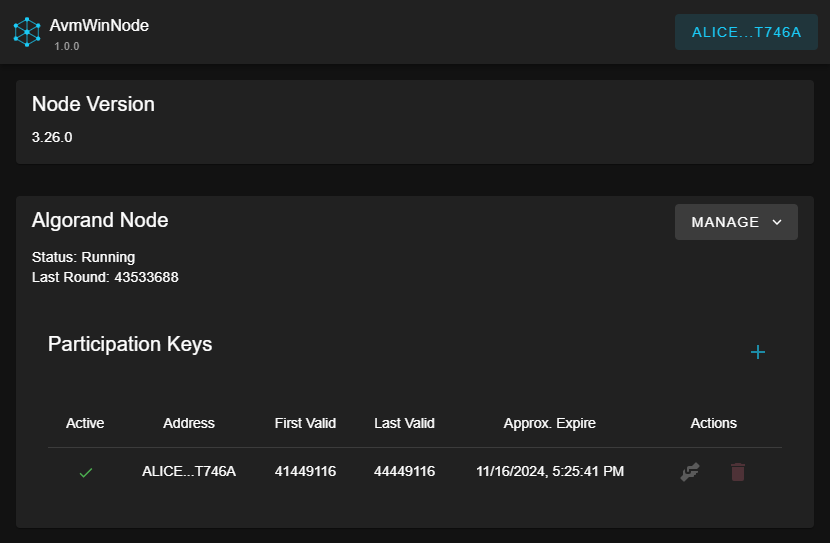
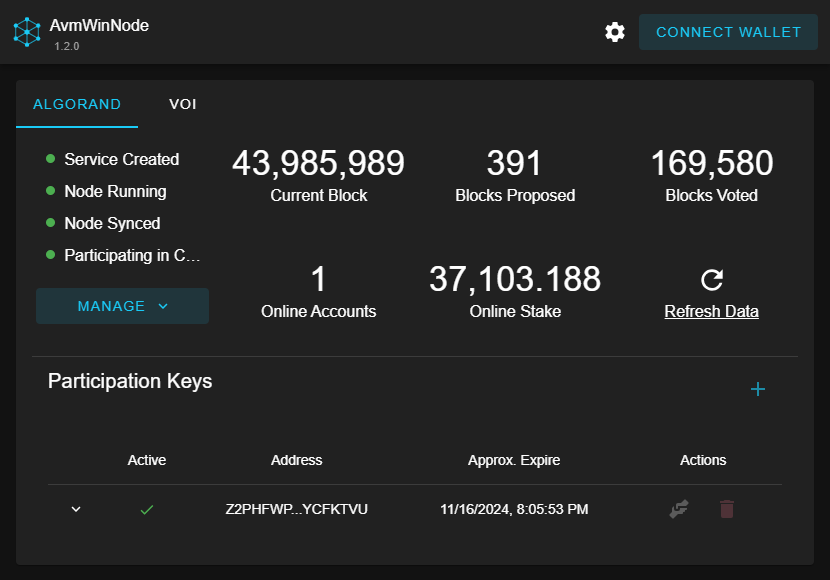
formatting; screenshot

diff --git a/webui/src/components/Node.vue b/webui/src/components/Node.vue
@@ -64,7 +64,7 @@
         </v-col>
         <template v-if="nodeStatus.serviceStatus === 'Running'">
           <v-col cols="3" class="text-center">
-            <div class="text-h4">
+            <div class="text-h4" style="white-space: nowrap">
               {{
                 algodStatus
                   ? algodStatus["last-round"].toLocaleString() || "-"
@@ -79,10 +79,14 @@
           </v-col>
           <v-col cols="3" class="text-center">
             <div class="text-h4">
-              {{ partDetails?.proposals == null ? "-" : partDetails.proposals }}
+              {{
+                partDetails?.proposals == null
+                  ? "-"
+                  : partDetails.proposals.toLocaleString()
+              }}
             </div>
             <div>Blocks Proposed</div>
-            <div class="mt-13 text-h4">
+            <div class="mt-13 text-h4" style="white-space: nowrap">
               {{
                 partDetails
                   ? (partDetails.activeStake / 10 ** 6).toLocaleString()
@@ -93,7 +97,11 @@
           </v-col>
           <v-col cols="3" class="text-center">
             <div class="text-h4">
-              {{ partDetails?.votes == null ? "-" : partDetails.votes }}
+              {{
+                partDetails?.votes == null
+                  ? "-"
+                  : partDetails.votes.toLocaleString()
+              }}
             </div>
             <div>Blocks Voted</div>
             <div

diff --git a/webui/src/components/Participation.vue b/webui/src/components/Participation.vue
@@ -52,13 +52,13 @@
                 <v-col class="text-subtitle-1">
                   Blocks Proposed:
                   <span class="font-weight-bold">
-                    {{ partStats[item.address]?.proposals }}
+                    {{ partStats[item.address]?.proposals.toLocaleString() }}
                   </span>
                 </v-col>
                 <v-col class="text-subtitle-1">
                   Blocks Voted:
                   <span class="font-weight-bold">
-                    {{ partStats[item.address]?.votes }}
+                    {{ partStats[item.address]?.votes.toLocaleString() }}
                   </span>
                 </v-col>
               </v-row>
